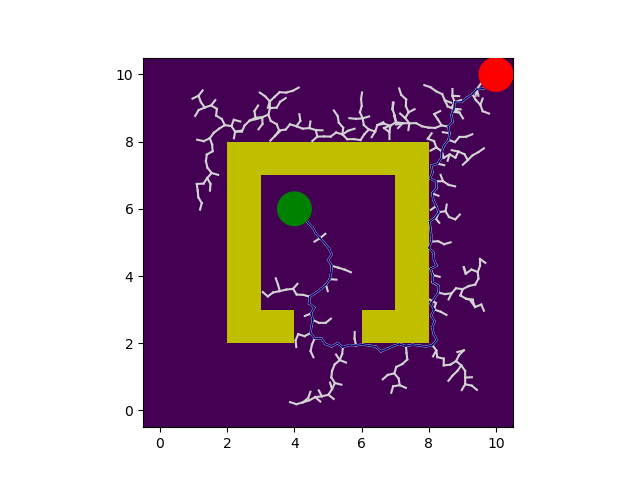
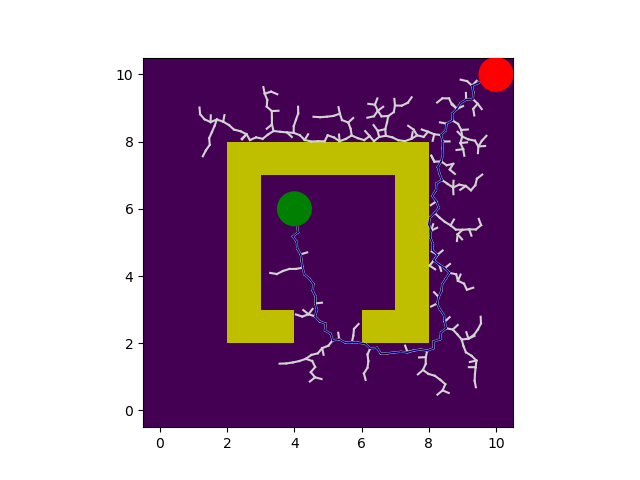
Fixed RRT

Changed region(s): [[0.2812, 0.1562, 0.7812, 0.8438]]

diff --git a/Code/RRTPlanner.py b/Code/RRTPlanner.py
@@ -16,7 +16,10 @@ class RRTPlanner(object):
         self.goal_prob = goal_prob
 
         # set step size for extensions
-        self.step_size = 0.2
+        if planning_env.ylimit[1] < 100:
+            self.step_size = 0.2
+        else:
+            self.step_size = 5
 
     def plan(self):
         '''
@@ -50,7 +53,9 @@ class RRTPlanner(object):
                 # Partial extensions, if enabled
                 if self.ext_mode == 'E2':
                     s, goal_added = self.extend(nearest_vert[1], s) # s = x_new
-                
+                    if not env.state_validity_checker(s):
+                        continue
+            
                 # Does the edge between the sample and its nearest tree node collide with any obstacles?
                 if env.edge_validity_checker(s, nearest_vert[1]):
                     s_idx = self.tree.add_vertex(s, nearest_vert)
@@ -58,6 +63,8 @@ class RRTPlanner(object):
                     self.tree.add_edge(nearest_vert_idx,s_idx,cost)
                     if goal == True and self.ext_mode == 'E1':
                         goal_added = True
+                else:
+                    goal_added = False
 
         if goal_added:
             plan.append(s)
@@ -71,7 +78,7 @@ class RRTPlanner(object):
                 parent_state = self.tree.vertices[parent_idx].state
             plan.append(parent_state)
         plan = plan[::-1]
-
+    
         print(f"Total number of iterations needed to reach goal: {num_iter}")
 
         total_time = time.time()-start_time
